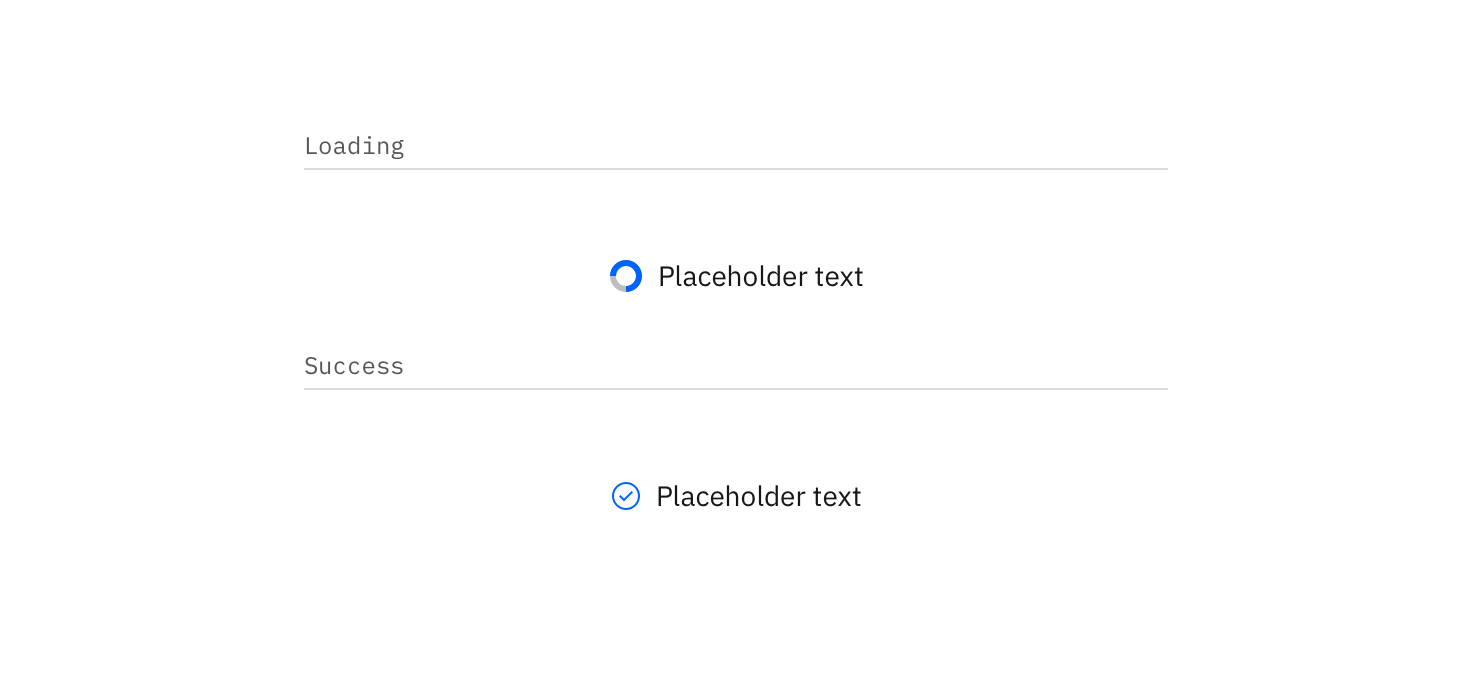
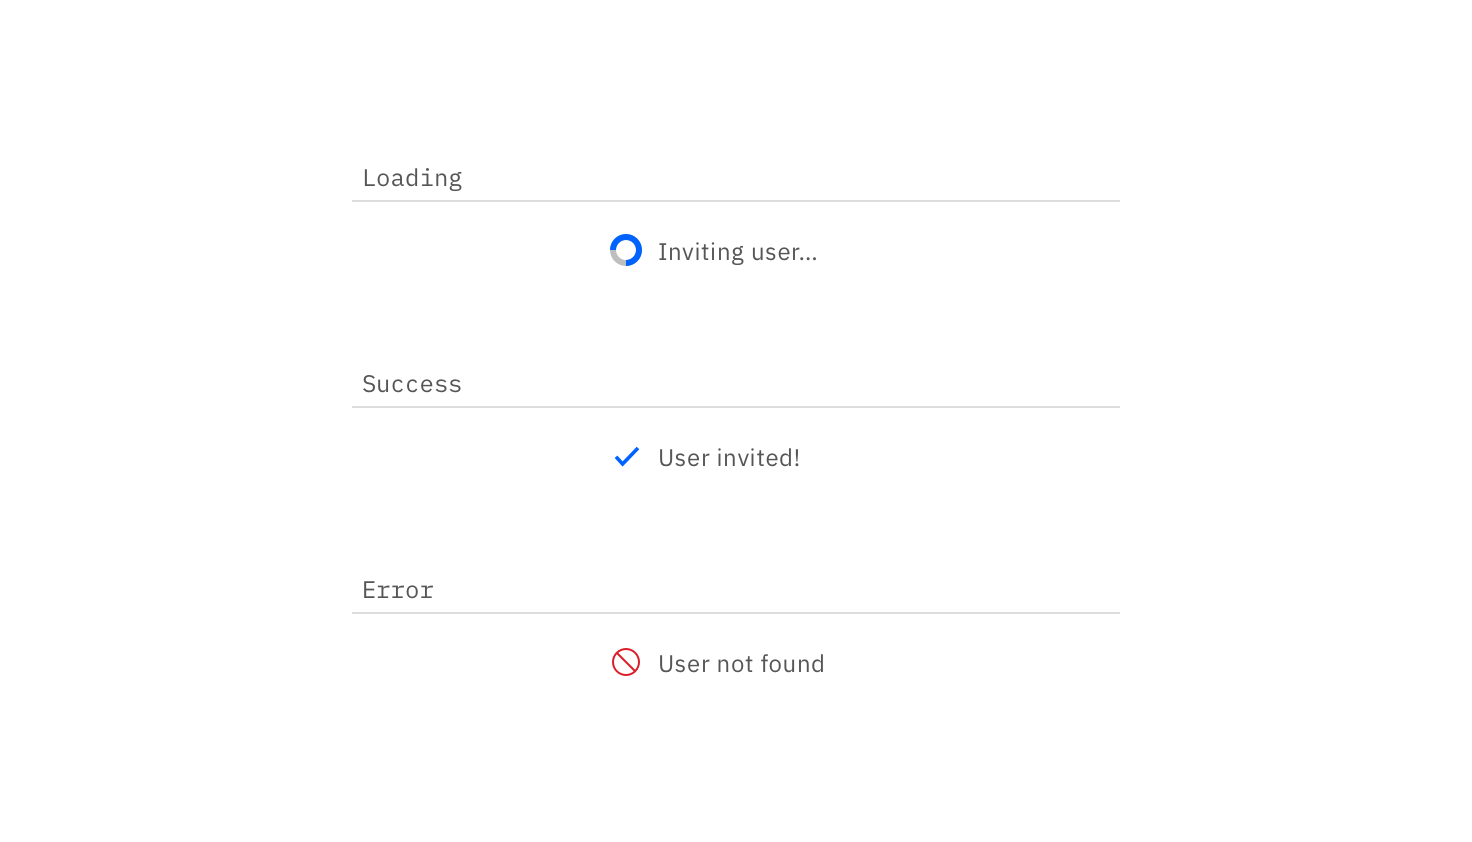
update inline loading images

diff --git a/src/content/components/inline-loading/usage.md b/src/content/components/inline-loading/usage.md
@@ -53,3 +53,13 @@ The _success_ state indicates that the action completed successfully.
 
 </image-component>
 
+#### Error
+
+The _error_ state indicates that the action did not complete successfully.
+
+<image-component cols="8">
+
+![Example of loading error](images/inline-loading-usage-3.png)
+
+</image-component>
+
